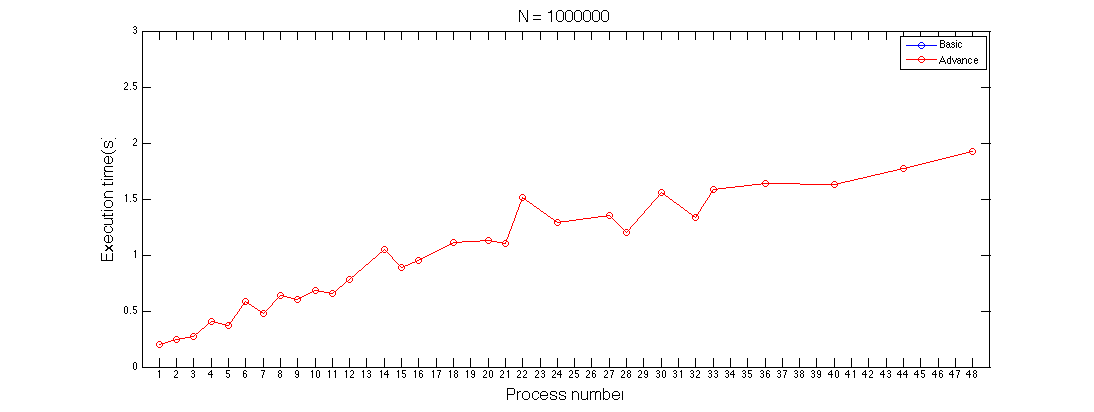
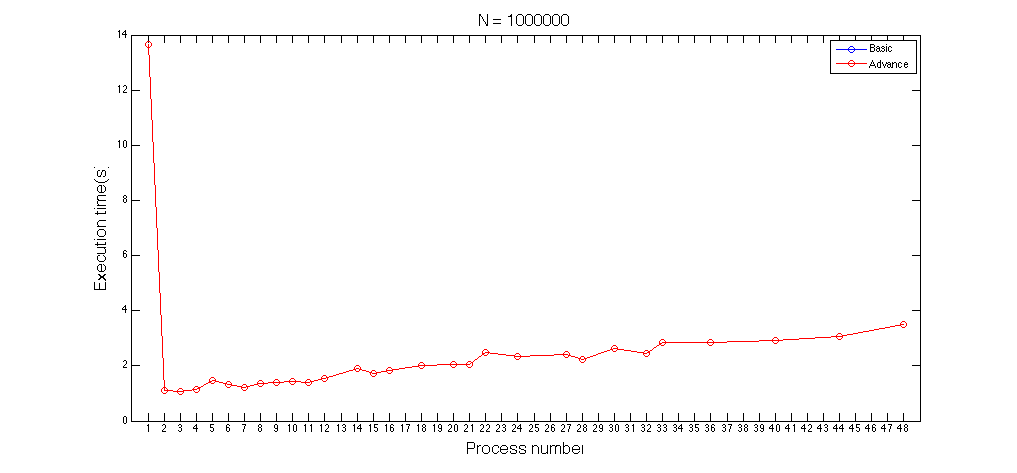
add advanced total time figure

diff --git a/mpi/report/ploter.m b/mpi/report/ploter.m
@@ -1,99 +1,17 @@
-%%
-range_a = 1;
-range_b = 96;
-thred = 48;
+clear;
 
-f = fopen('basic_report.txt', 'r');
+[x_1, y_1] = statistic('advanced_report.txt', 1, 48, 0);
+[x_2, y_2] = statistic('advanced_report.txt', 1, 96, 48);
+[x_3, y_3] = statistic('advanced_report.txt', 1, 144, 96);
+[x_4, y_4] = statistic('advanced_report.txt', 1, 192, 144);
 
-
-nodes = [];
-ppn = [];
-testcase = [];
-time = [];
-
-for i = range_a:range_b,
-    str = fgets(f);
-    if i > thred,
-        element = strsplit(str, ' ');
-        C = cellstr(element);
-        nodes = [nodes str2double(C(1))];
-        ppn = [ppn str2double(C(2))];
-        testcase = [testcase str2double(C(3))];
-        time = [time str2double(C(4))];
-    end
-end
-
-process(1:50) = 1;
-num_of_case(1:50) = 0;
-for i = 1:48,
-    target = nodes(i) * ppn(i);
-    process(target) = process(target) * time(i);
-    num_of_case(target) = num_of_case(target) + 1;
-end
-
-x_basic = [];
-y_basic = [];
-for i = 1:48,
-    if num_of_case(i) > 0,
-        x_basic = [x_basic i];
-        process(i) = process(i) .^ (1/num_of_case(i));
-        y_basic = [y_basic process(i)];
-        fprintf('%d %f\n', i, process(i));
-    end
-end
-
-fclose(f);
-%%
-
-f = fopen('advanced_report.txt', 'r');
-
-nodes = [];
-ppn = [];
-testcase = [];
-time = [];
-
-for i = range_a:range_b,
-    if i > thred,
-        str = fgets(f);
-        element = strsplit(str, ' ');
-        C = cellstr(element);
-        nodes = [nodes str2double(C(1))];
-        ppn = [ppn str2double(C(2))];
-        testcase = [testcase str2double(C(3))];
-        time = [time str2double(C(4))];
-    end
-end
-
-process(1:50) = 1;
-num_of_case(1:50) = 0;
-for i = 1:48,
-    target = nodes(i) * ppn(i);
-    process(target) = process(target) * time(i);
-    num_of_case(target) = num_of_case(target) + 1;
-end
-
-x_advance = [];
-y_advance = [];
-for i = 1:48,
-    if num_of_case(i) > 0,
-        x_advance = [x_advance i];
-        process(i) = process(i) .^ (1/num_of_case(i));
-        y_advance = [y_advance process(i)];
-        fprintf('%d %f\n', i, process(i));
-    end
-end
-
-fclose(f);
-
-%%
-
-plot(x_basic, y_basic, 'b-o', x_advance, y_advance, 'r-o');
-axis([0,49,0, 1200]);
+plot(x_1, y_1, 'b-o', x_2, y_2, 'r-o', x_3, y_3, 'k-o', x_4, y_4, 'm-o');
+axis([0,49,0, 30]);
  set(gca,...
     'XTickLabel',1:48,...
     'XTick', 1:48);
-legend('Basic', 'Advance');
-title('N = 1000000', 'FontSize', 16);
+legend('N=100000', 'N=1000000', 'N=10000000', 'N=84000000');
+title('Advanced Version', 'FontSize', 16);
 xlabel('Process number', 'FontSize', 16); 
 ylabel('Execution time(s)', 'FontSize', 16);
-    
+   

diff --git a/mpi/report/statistic.m b/mpi/report/statistic.m
@@ -1,0 +1,47 @@
+function [ x, y ] = statistic(filename, range_a, range_b, thred)
+%UNTITLED2 Summary of this function goes here
+%   Detailed explanation goes here
+
+    f = fopen(filename, 'r');
+
+    nodes = [];
+    ppn = [];
+    testcase = [];
+    time = [];
+
+    for i = range_a:range_b,
+        str = fgets(f);
+        if i > thred,
+            element = strsplit(str, ' ');
+            C = cellstr(element);
+            nodes = [nodes str2double(C(1))];
+            ppn = [ppn str2double(C(2))];
+            testcase = [testcase str2double(C(3))];
+            time = [time str2double(C(4))];
+        end
+    end
+
+    process(1:50) = 1;
+    num_of_case(1:50) = 0;
+    for i = 1:48,
+        target = nodes(i) * ppn(i);
+        process(target) = process(target) * time(i);
+        num_of_case(target) = num_of_case(target) + 1;
+    end
+
+    x_advance = [];
+    y_advance = [];
+    for i = 1:48,
+        if num_of_case(i) > 0,
+            x_advance = [x_advance i];
+            process(i) = process(i) .^ (1/num_of_case(i));
+            y_advance = [y_advance process(i)];
+            fprintf('%d %f\n', i, process(i));
+        end
+    end
+
+    fclose(f);
+    x = x_advance;
+    y = y_advance;
+end
+

diff --git a/mpi/report/report.md b/mpi/report/report.md
@@ -69,13 +69,33 @@ Advanced 的做法是採用Quicksort + Merge 的方式，實作方法如下：
 
 ### Performance mesurement
 
-* 相同Process的效能趨勢：對於相同process數(node x ppn)，看執行時間的趨勢，預期是越多process，他的執行時間會越少。對於這個執行時間的量測方法採用『幾何平均』。也就是說，如果多個相同process數量的數據，看有幾組，就對這幾組數據的乘積開幾次方根。（藍色線是Basic Version，紅色線是Advanced Version）
+* 相同Process的效能趨勢：對於相同process數($nodes \times ppn$)，看執行時間的趨勢，預期是越多process，他的執行時間會越少。對於這個執行時間的量測方法採用『幾何平均』。也就是說，如果多個相同process數量的數據，看有幾組，就對這幾組數據的乘積開幾次方根。（藍色線是Basic Version，紅色線是Advanced Version）
+
+	**N = 100000**
 
 	![img](./Total_N_100000.png)
 	
-	對於Advanced Version來說，N=100000 的資料亮或許太小，根據我的實作方式，我猜測時間的overhead 會是在大量memory操作。
+	* 對於Advanced Version來說，N=100000 的資料量或許太小，根據我的實作方式，我猜測時間的增加會是大量操作memory所造成的。
+	* 而Basic version可以很明顯的從圖表上看出，當process數目多一點的時候，他的執行時間會越短。
+	* 當 Basic Version 的process 數量增加到一定的程度，他的執行時間就降不下去 
+	* 兩者的執行時間會越來越接近，process數量再多一點，或許有機會反超
+
+	**N = 1000000**
+	![img](./Total_N_1000000.png)
+
 	
-* 相同Process數量，固定一個process read file，比較Node個數、資料量不同而影響的Communication Time。假設Process數量都是 12：
+	以下這個是紅線放大圖：
+	![img](./Quicksort_N_1000000.png)
+	
+	* Basic Version 的process 數量大幅影響執行時間
+	* Advanced Version 當process變成兩個執行時間變短，其他都是短幅度上升
+	* Advanced Version 執行時間遠小於Basic Version
+* Advanced Version 不同資料量，繪製出來的圖形，分別使用不同N的input testcase：
+	![img](./advanced_all.png)
+
+	
+	
+* 相同Process數量，比較Node個數、資料量不同而影響的Communication Time。假設Process數量都是 12：
 	
 	**Basic Version**
   
